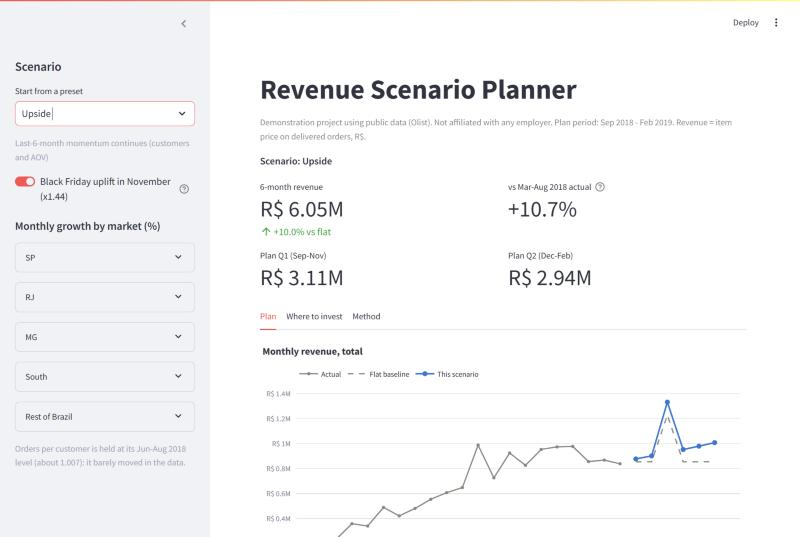
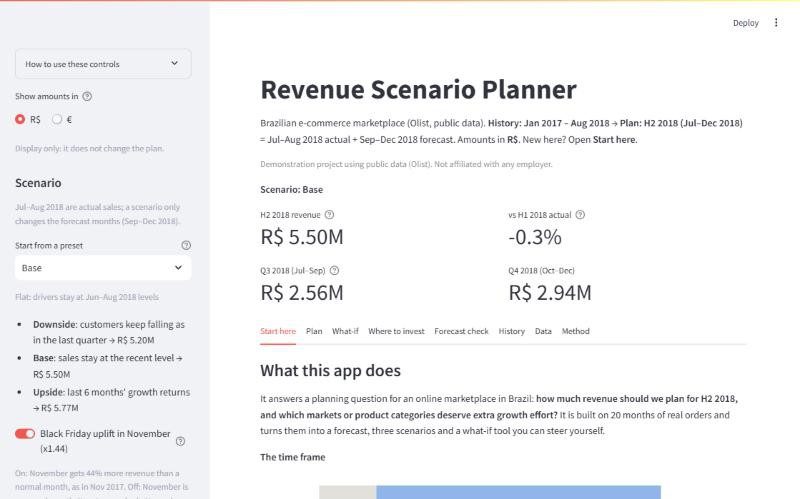
Add GitHub Actions tests, pin versions, prepare app for Streamlit Cloud
- .github/workflows/tests.yml runs the test suite on every push (Python
  3.12). The raw Olist CSVs are not in the repo, so the 4 tests that
  rebuild from them skip; the other 79 run on the committed tables.
- requirements.txt pinned to the tested versions; app/requirements.txt
  lists only what the app needs (streamlit, plotly, pandas, numpy) for
  Streamlit Community Cloud.
- README: tests badge and an animated tour of the app; fresh screenshot.
- App: amounts that round to zero show as "0k" (no "-0k" / "+0k").

diff --git a/tests/test_data.py b/tests/test_data.py
@@ -9,8 +9,15 @@ from src import config as cfg, prepare
 P = cfg.PROCESSED_DIR
 
 
+RAW_AVAILABLE = all((cfg.RAW_DIR / f).exists() for f in cfg.RAW_FILES.values())
+
+
 @pytest.fixture(scope="module")
 def raw():
+    # The raw Olist CSVs are not committed (licence, size). Without them, e.g. on GitHub Actions, the
+    # tests that rebuild from raw data are skipped; all tests on the processed tables still run.
+    if not RAW_AVAILABLE:
+        pytest.skip("raw Olist CSVs not present (download them into data/raw/)")
     return prepare.load_raw()
 
 

diff --git a/app/streamlit_app.py b/app/streamlit_app.py
@@ -144,7 +144,9 @@ def mm(v, d=2):
 
 
 def kk(v, sign=False):
-    """Money in thousands, in the chosen currency."""
+    """Money in thousands, in the chosen currency. Amounts that round to zero show as 0k (no +/-)."""
+    if abs(v * FX) < 500:
+        return f"{SYM} 0k"
     return f"{SYM} {v * FX / 1e3:{'+' if sign else ''},.0f}k"
 
 

diff --git a/tests/test_readme.py b/tests/test_readme.py
@@ -54,6 +54,8 @@ def test_readme_numbers_match_outputs(d):
 
 def test_readme_images_exist():
     for path in re.findall(r"!\[[^\]]*\]\(([^)]+)\)", README):
+        if path.startswith("http"):  # badges and other web images
+            continue
         assert (cfg.ROOT / path).exists(), path
 
 

diff --git a/README.md b/README.md
@@ -1,5 +1,7 @@
 # Revenue Forecast & Scenario Planner
 
+[![tests](https://github.com/jessicaayivi/revenue-forecast-scenario-planner/actions/workflows/tests.yml/badge.svg)](https://github.com/jessicaayivi/revenue-forecast-scenario-planner/actions/workflows/tests.yml)
+
 > Demonstration project using public data (Olist). Not affiliated with any employer.
 
 **Business question:** What revenue should we plan for H2 2018, and which markets or categories should get
@@ -76,7 +78,7 @@ Friday uplift, and see the plan by quarter and market. The **What-if** tab tests
 and where the same change would be worth most. A **price vs volume** mode raises or cuts prices, lets customers
 respond with an elasticity you choose, and shows the break-even point. It uses the same engine as the notebooks, so the numbers always match.
 
-![Scenario planner](docs/images/05_planner.jpg)
+![Scenario planner: a tour of the app](docs/images/05_planner_tour.gif)
 
 ## How it works
 
